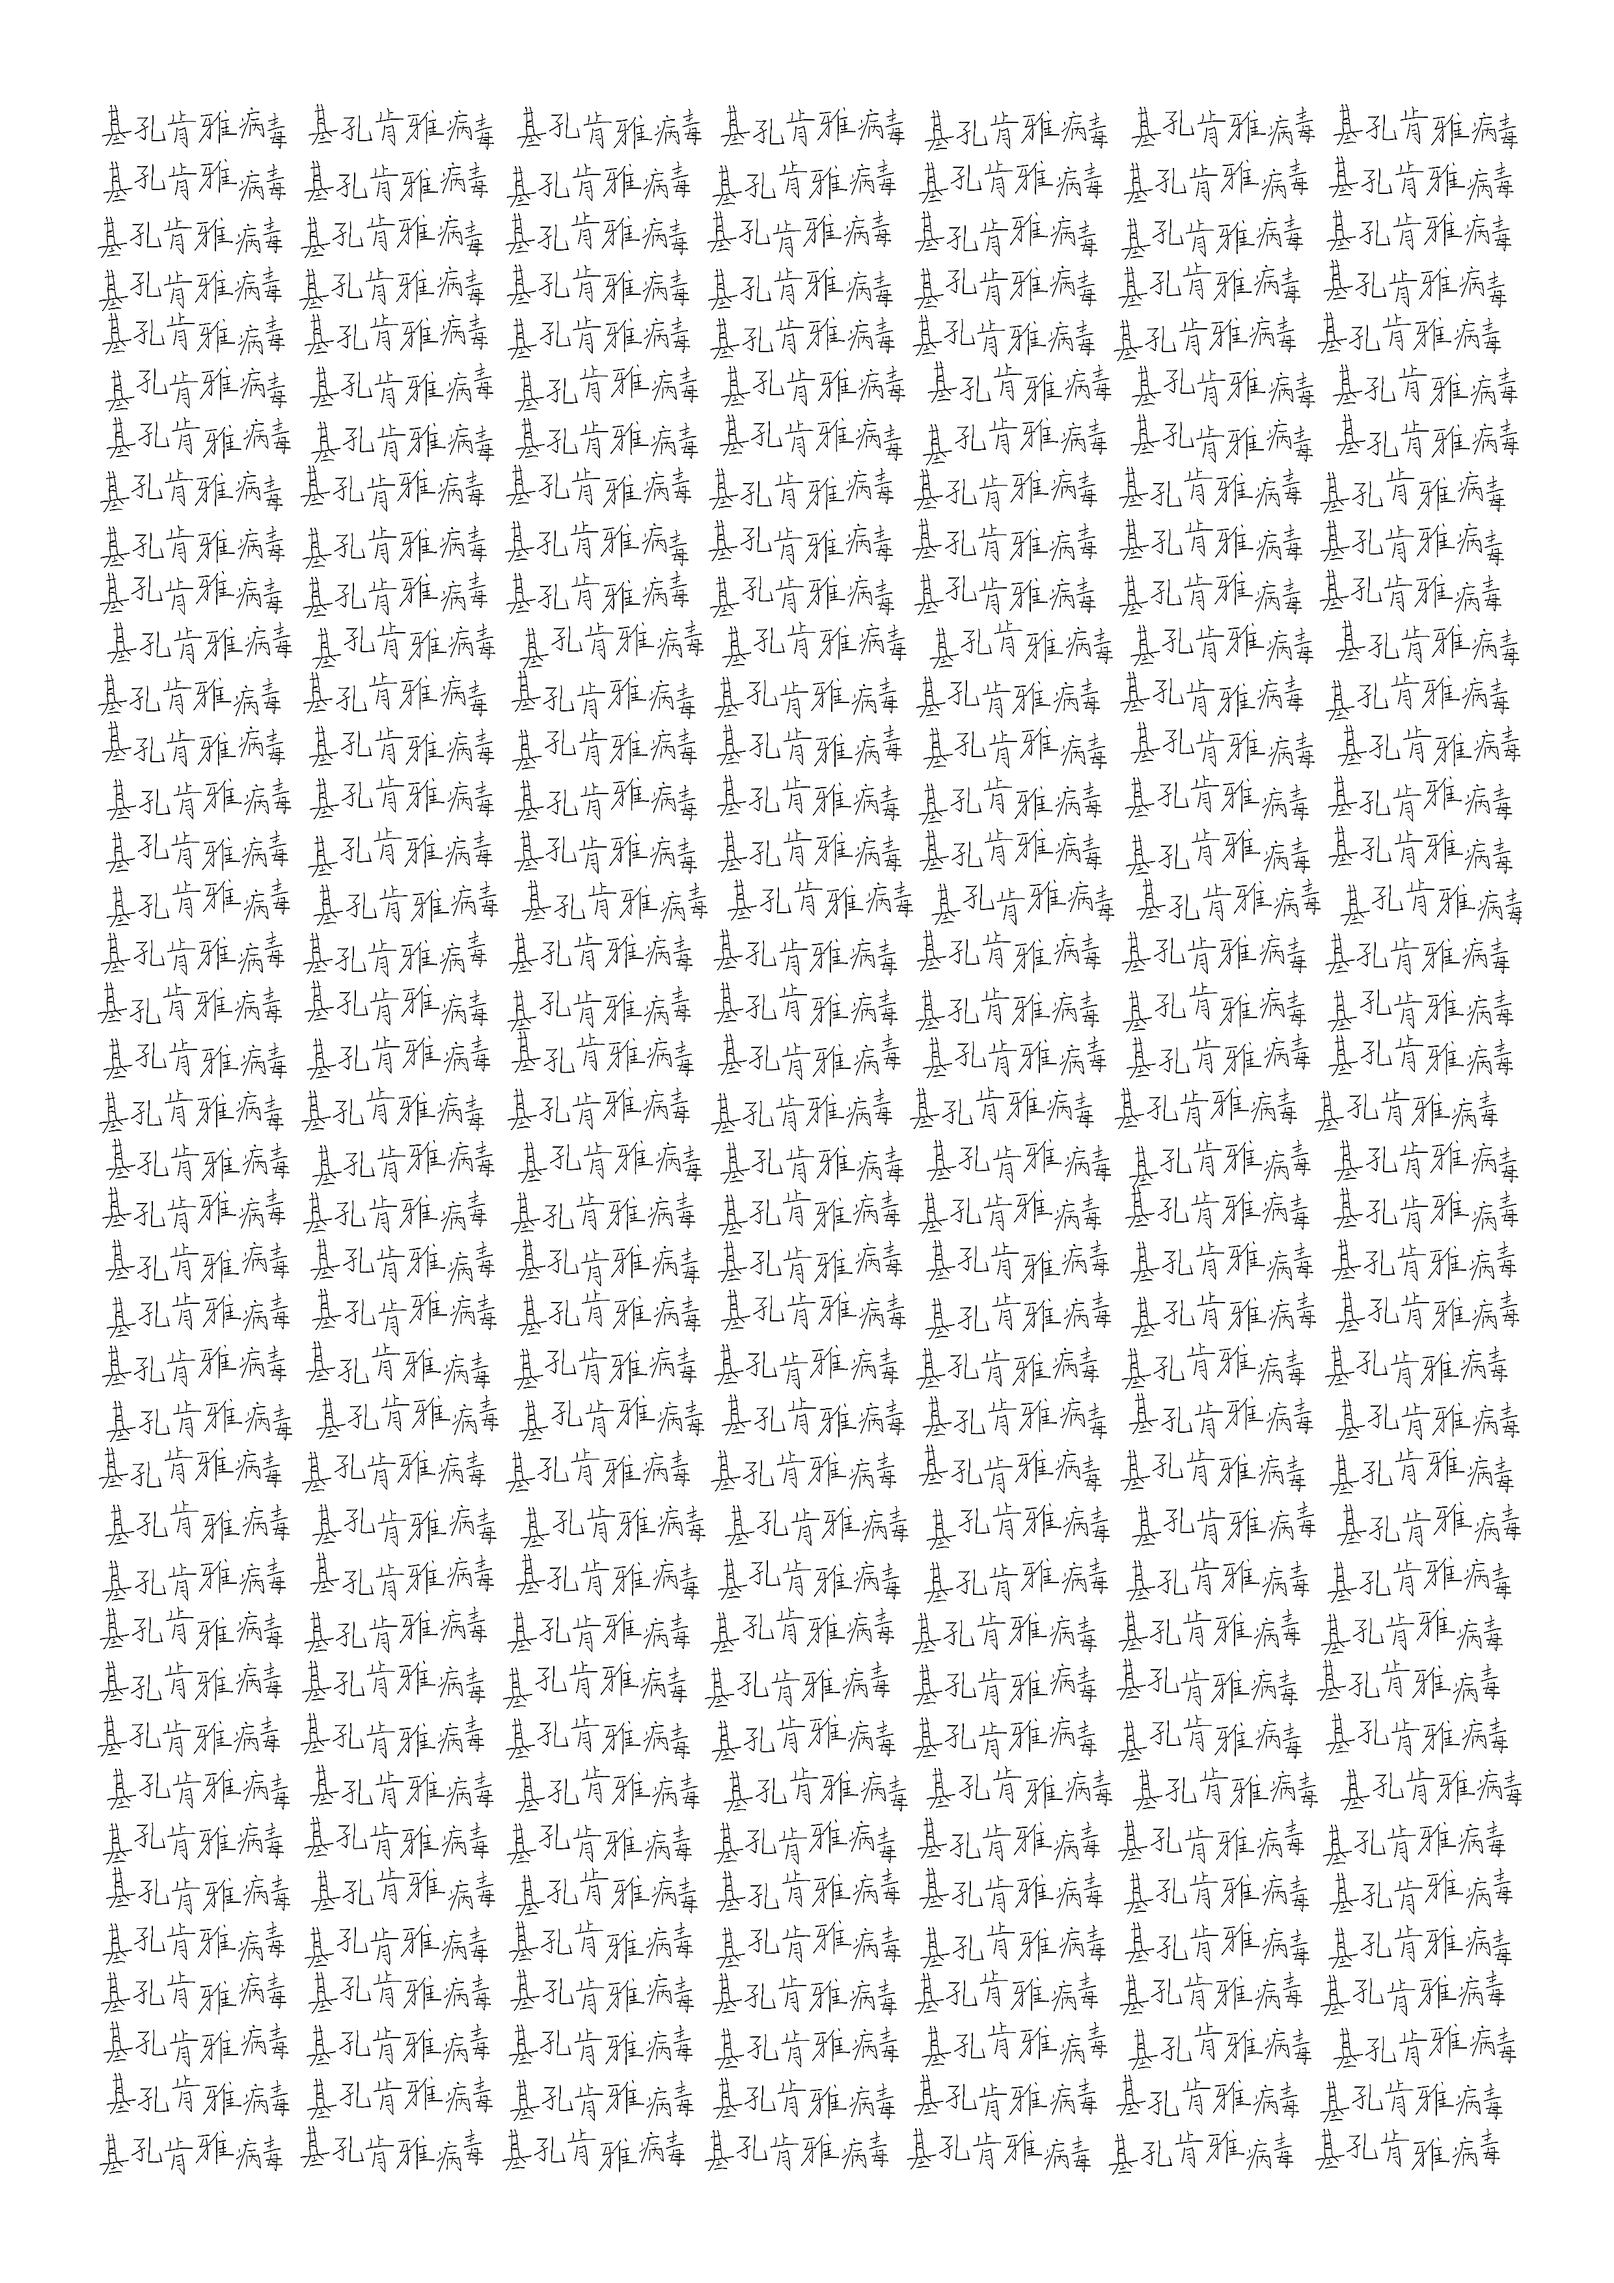
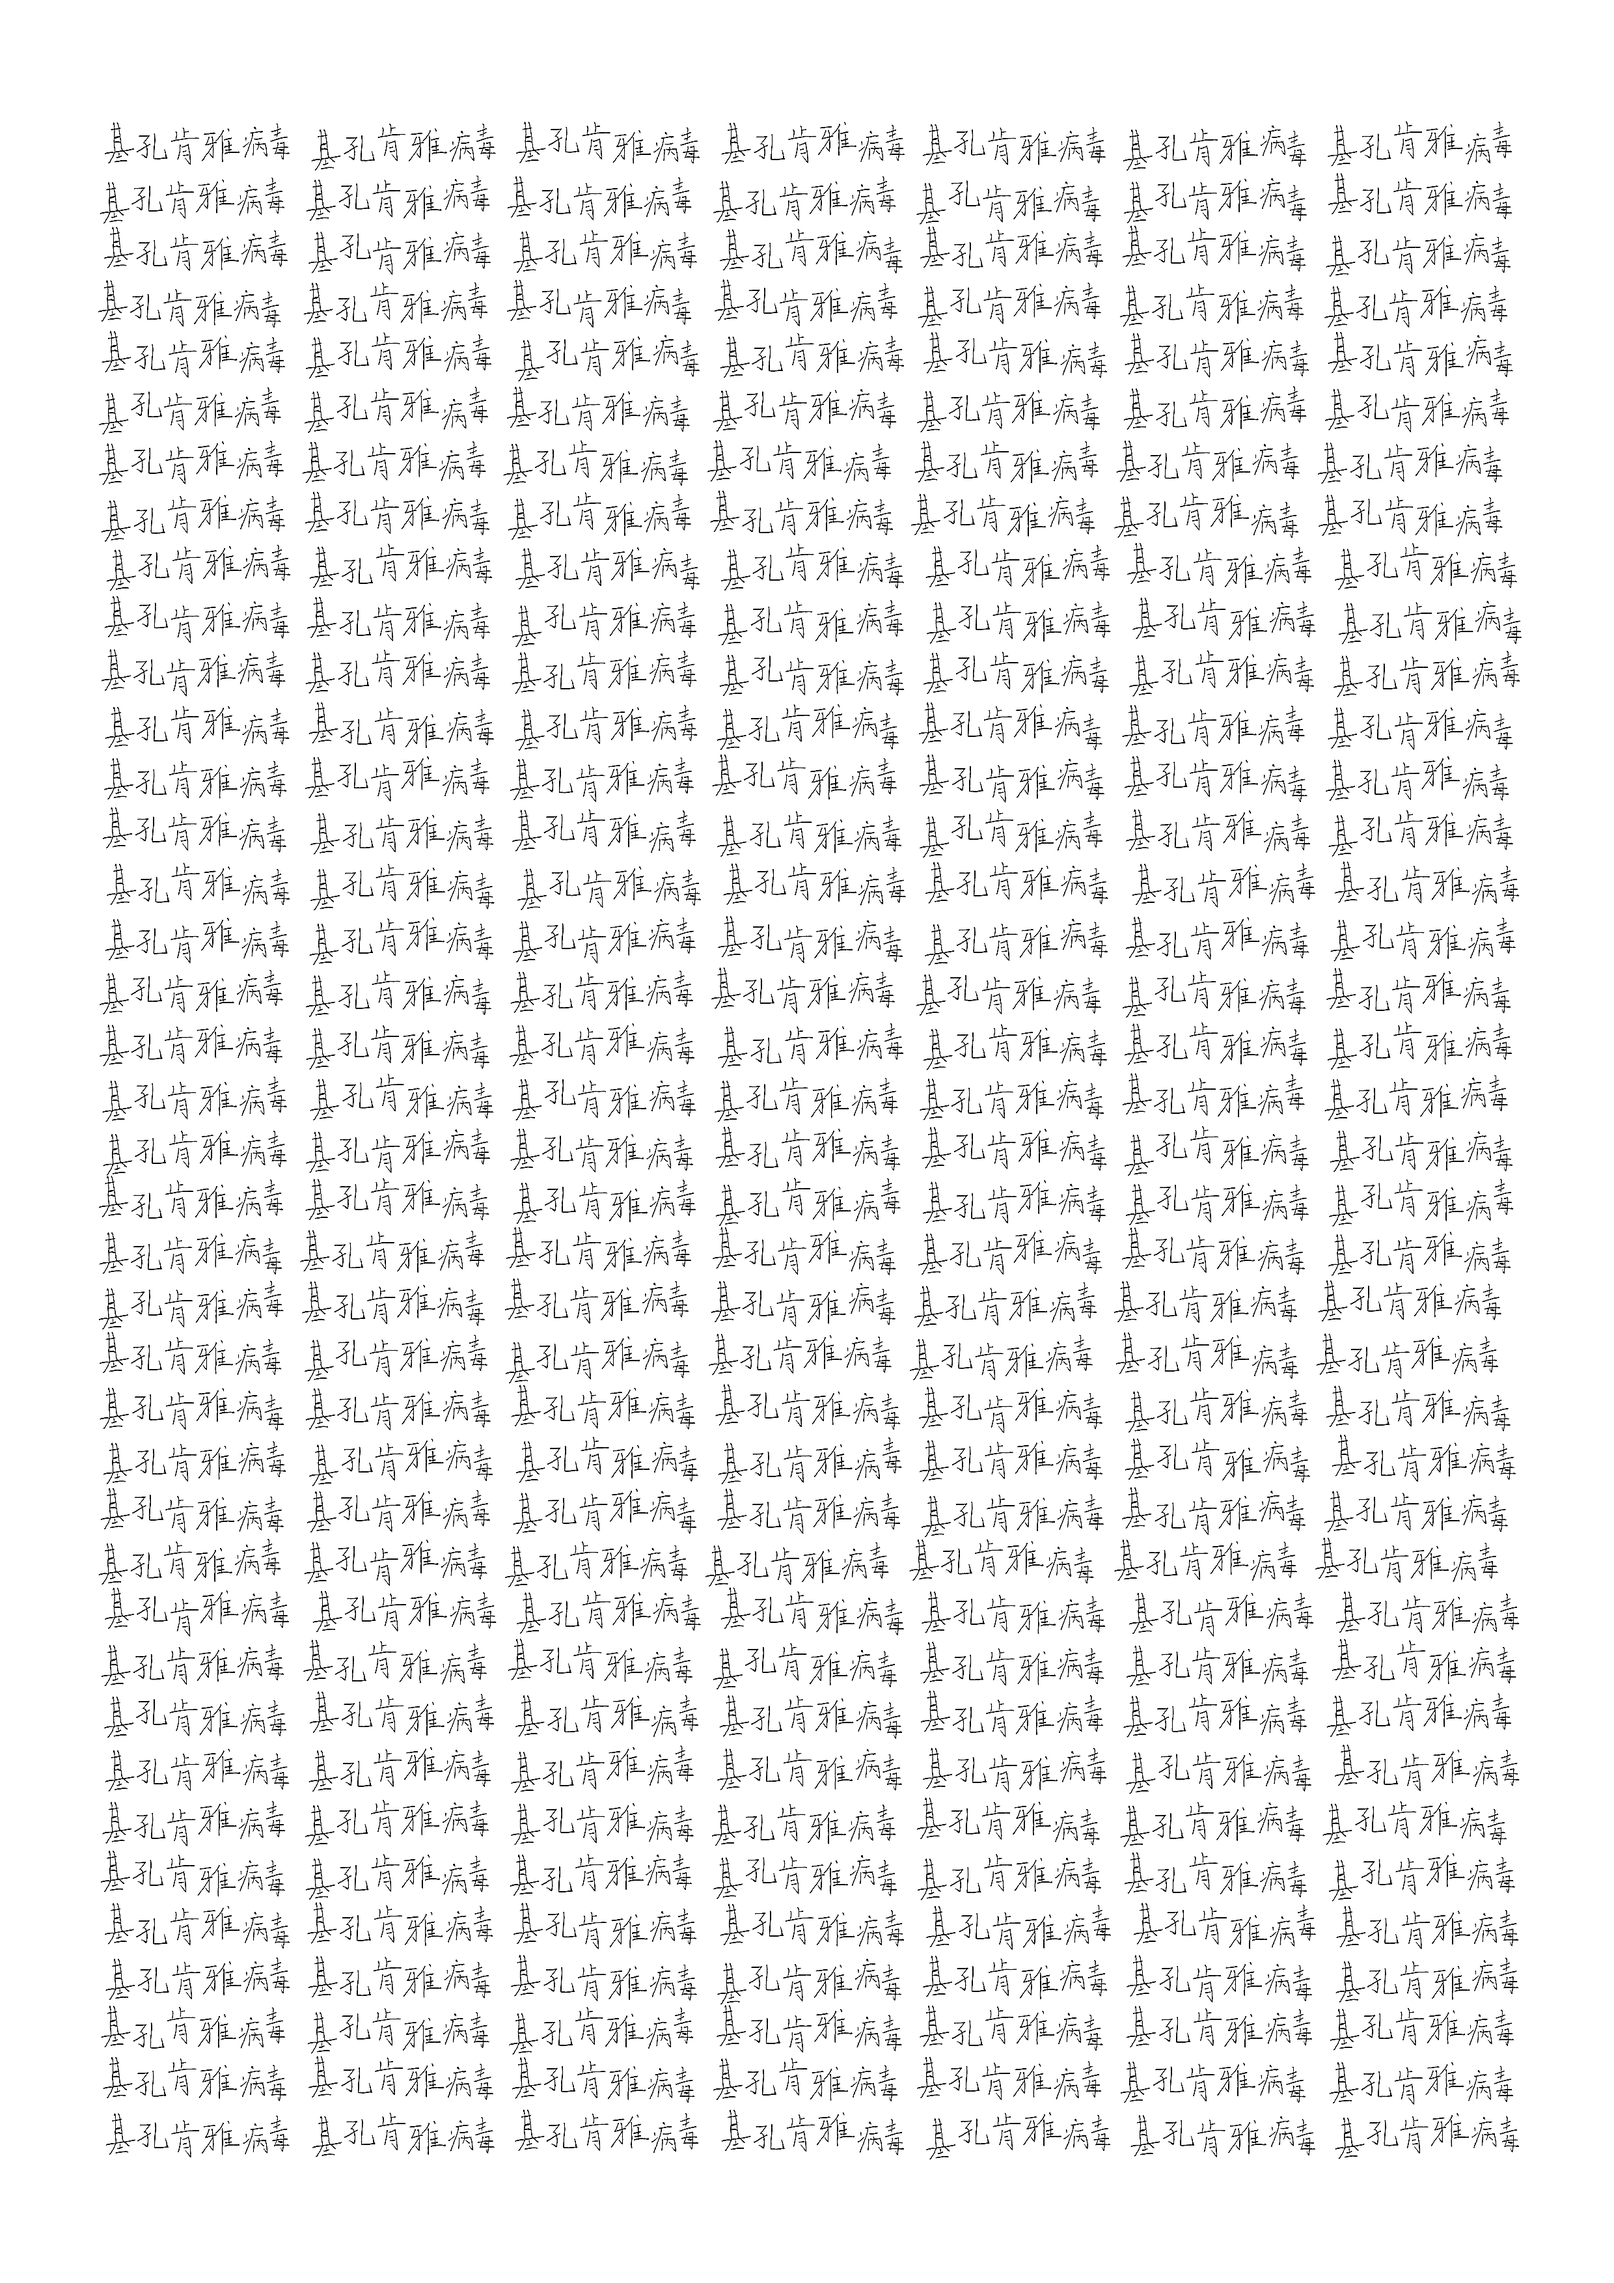
docs: add font generation command and adjust rows parameter
- Added FontForge command instructions to README for generating TTF font
- Updated main.py to reduce rows from 40 to 39 for better layout spacing
- Updated output_a4.png with new configuration results

Changed region(s): [[0.0621, 0.0311, 0.9315, 0.9635]]

diff --git a/main.py b/main.py
@@ -14,7 +14,7 @@ def main():
         font_path="output_font.ttf",
         output_path="output_a4.png",
         repeat=7,  # 单行大字：3 组/行 → 字号约 457px；改为 2 可达 710px
-        rows=40,
+        rows=39,
         font_size=None,
         supersample=6,  # 提升清晰度（默认 4，改 6 后边缘更平滑，内存翻 1.5 倍）
         letter_spacing=2,  # 组内字间距收窄（px）

diff --git a/README.md b/README.md
@@ -79,6 +79,15 @@ font_size ∝ A4 宽度 / (repeat × 组宽 + (repeat - 1) × group_spacing + 2 
 
 - **已将 repeat 改为 5，rows 改为 35**：字号会从约 46px 增大到约 65px（约大 40%），获得更舒适的大字显示效果。
 
+## 字体生成命令
+在完成字体提取过程后，会生成相应的 FontForge 脚本文件。要生成最终的 TTF 字体文件，需要运行以下命令：
+
+```bash
+fontforge.exe --script output_glyphs/generate_font.py
+```
+
+此命令将在 `output_glyphs/` 目录中查找 [generate_font.py](file://j:\my_project\coding-net\handwritten_tracing\output_glyphs\generate_font.py) 脚本并执行它，生成 [output_font.ttf](file://j:\my_project\coding-net\handwritten_tracing\output_font.ttf) 文件。
+
 ## 应用场景
 - 个人手写体数字化
 - 特殊字体设计
